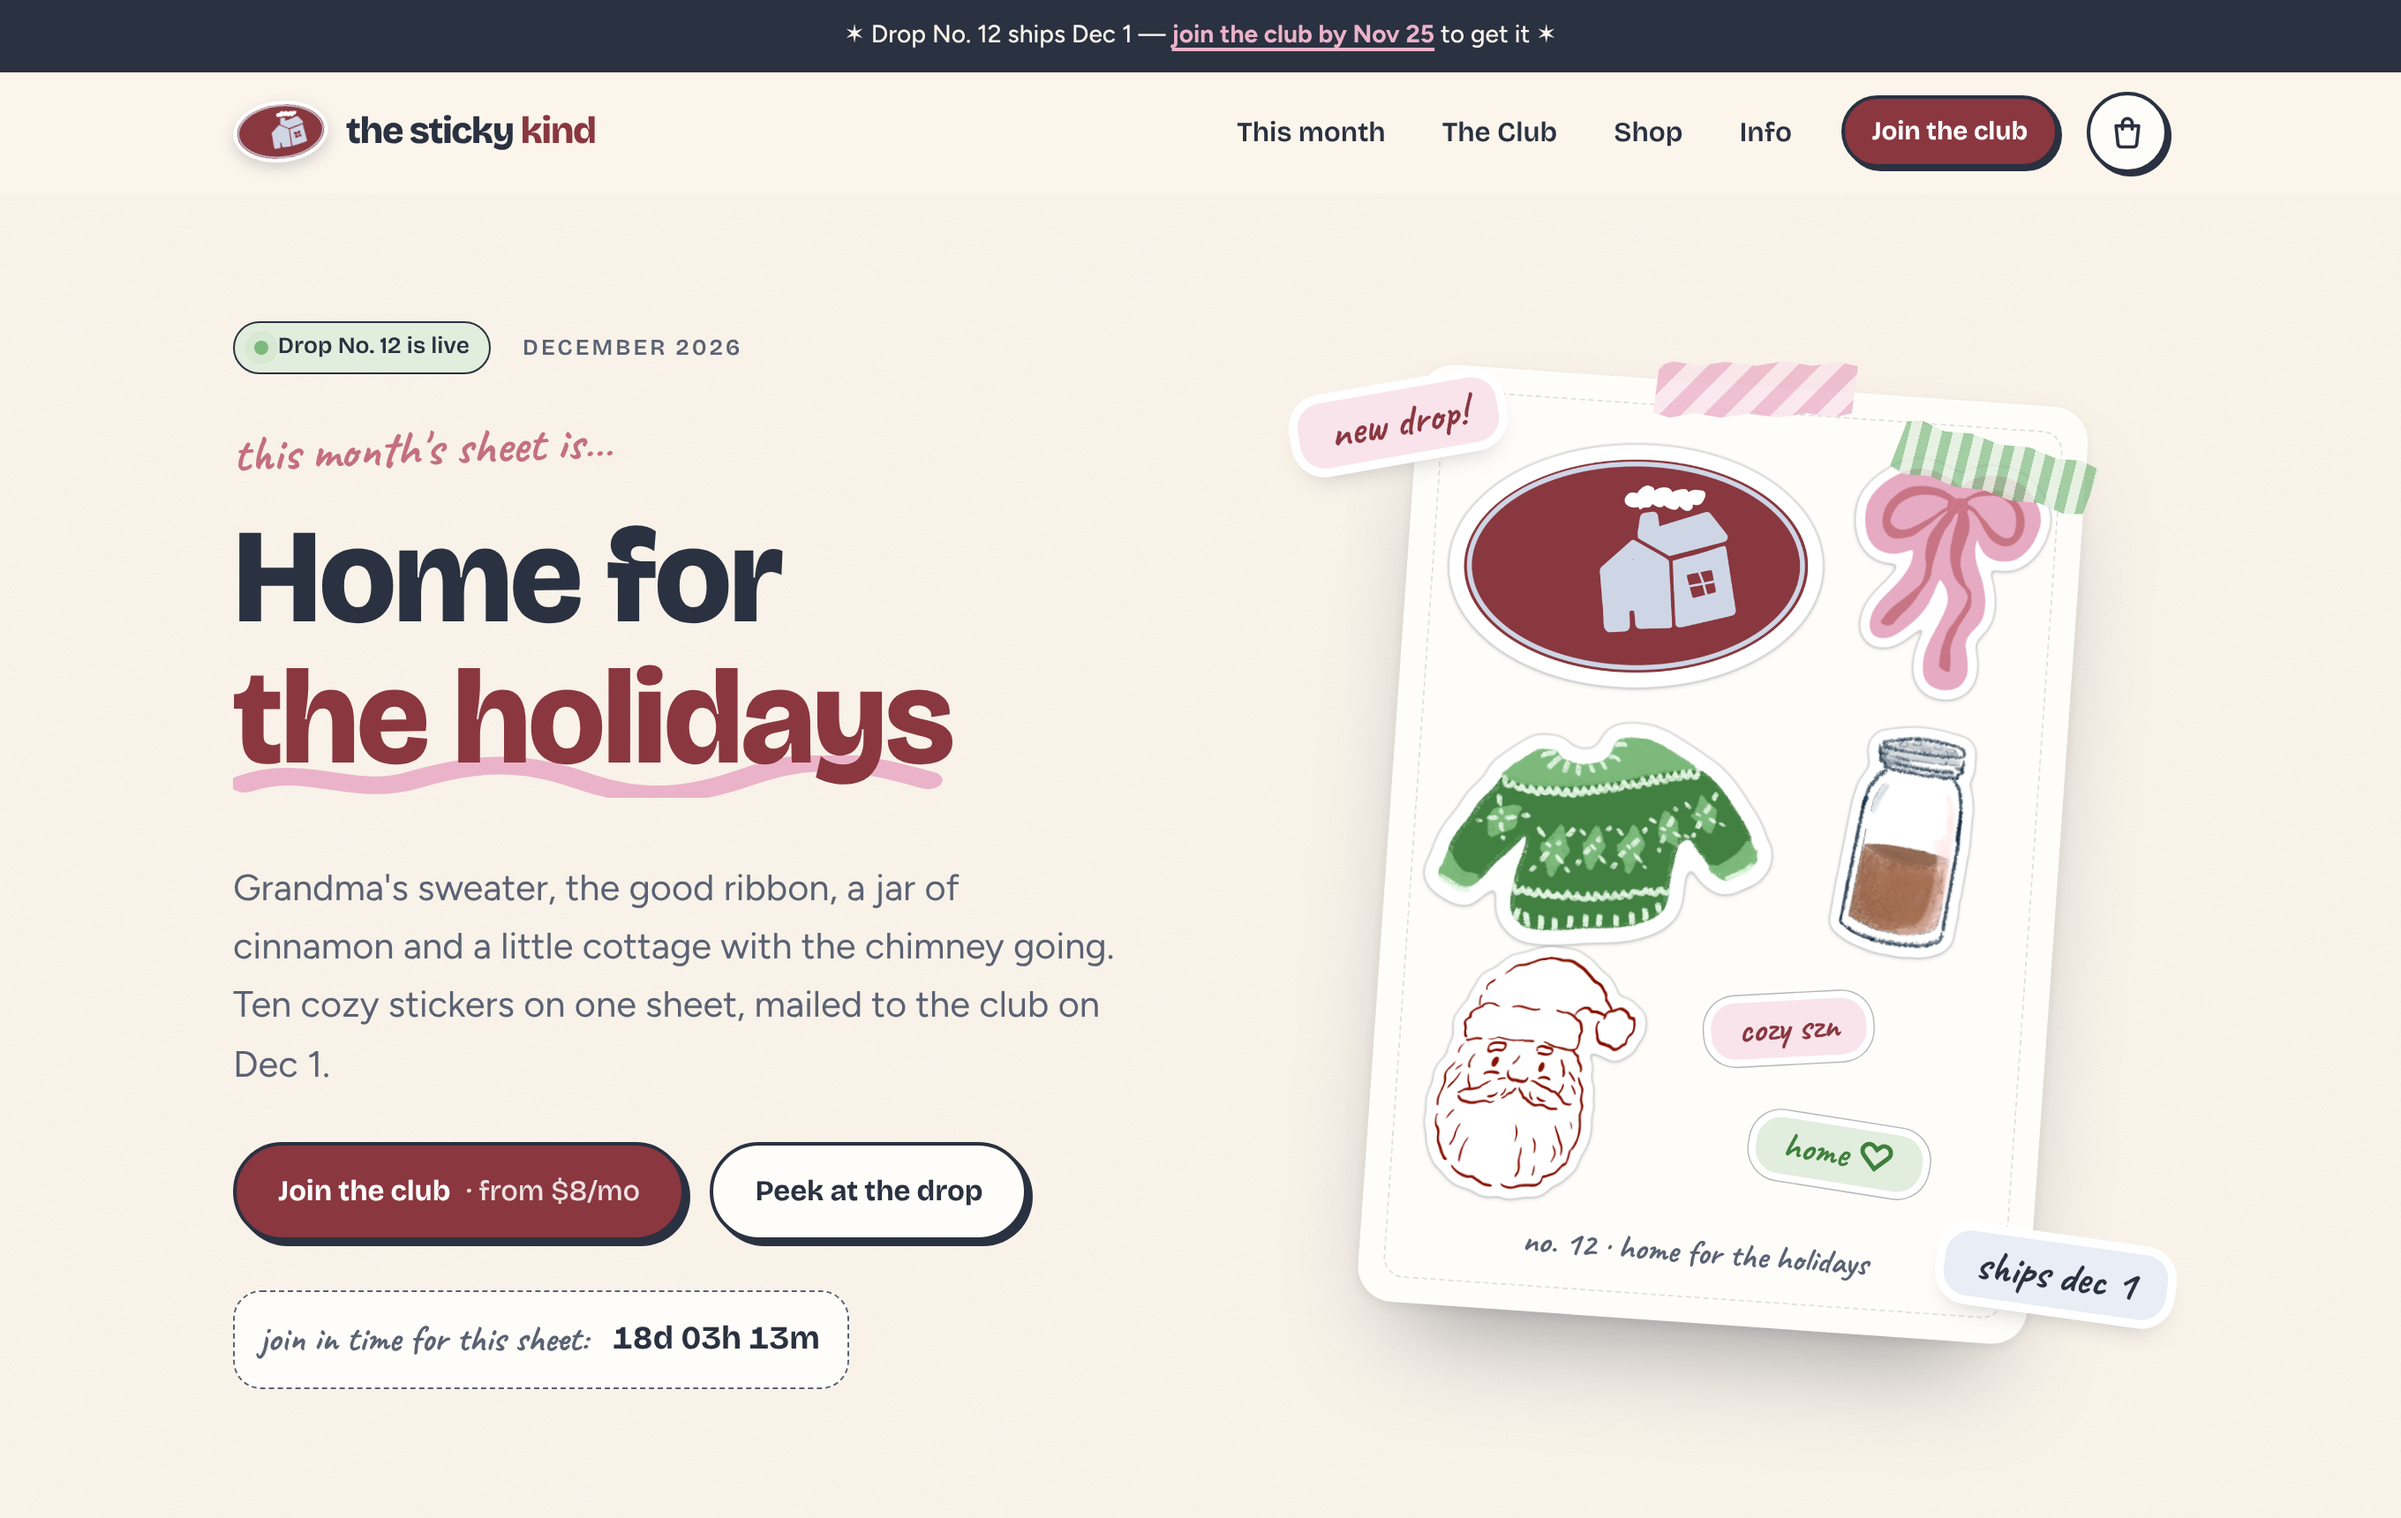
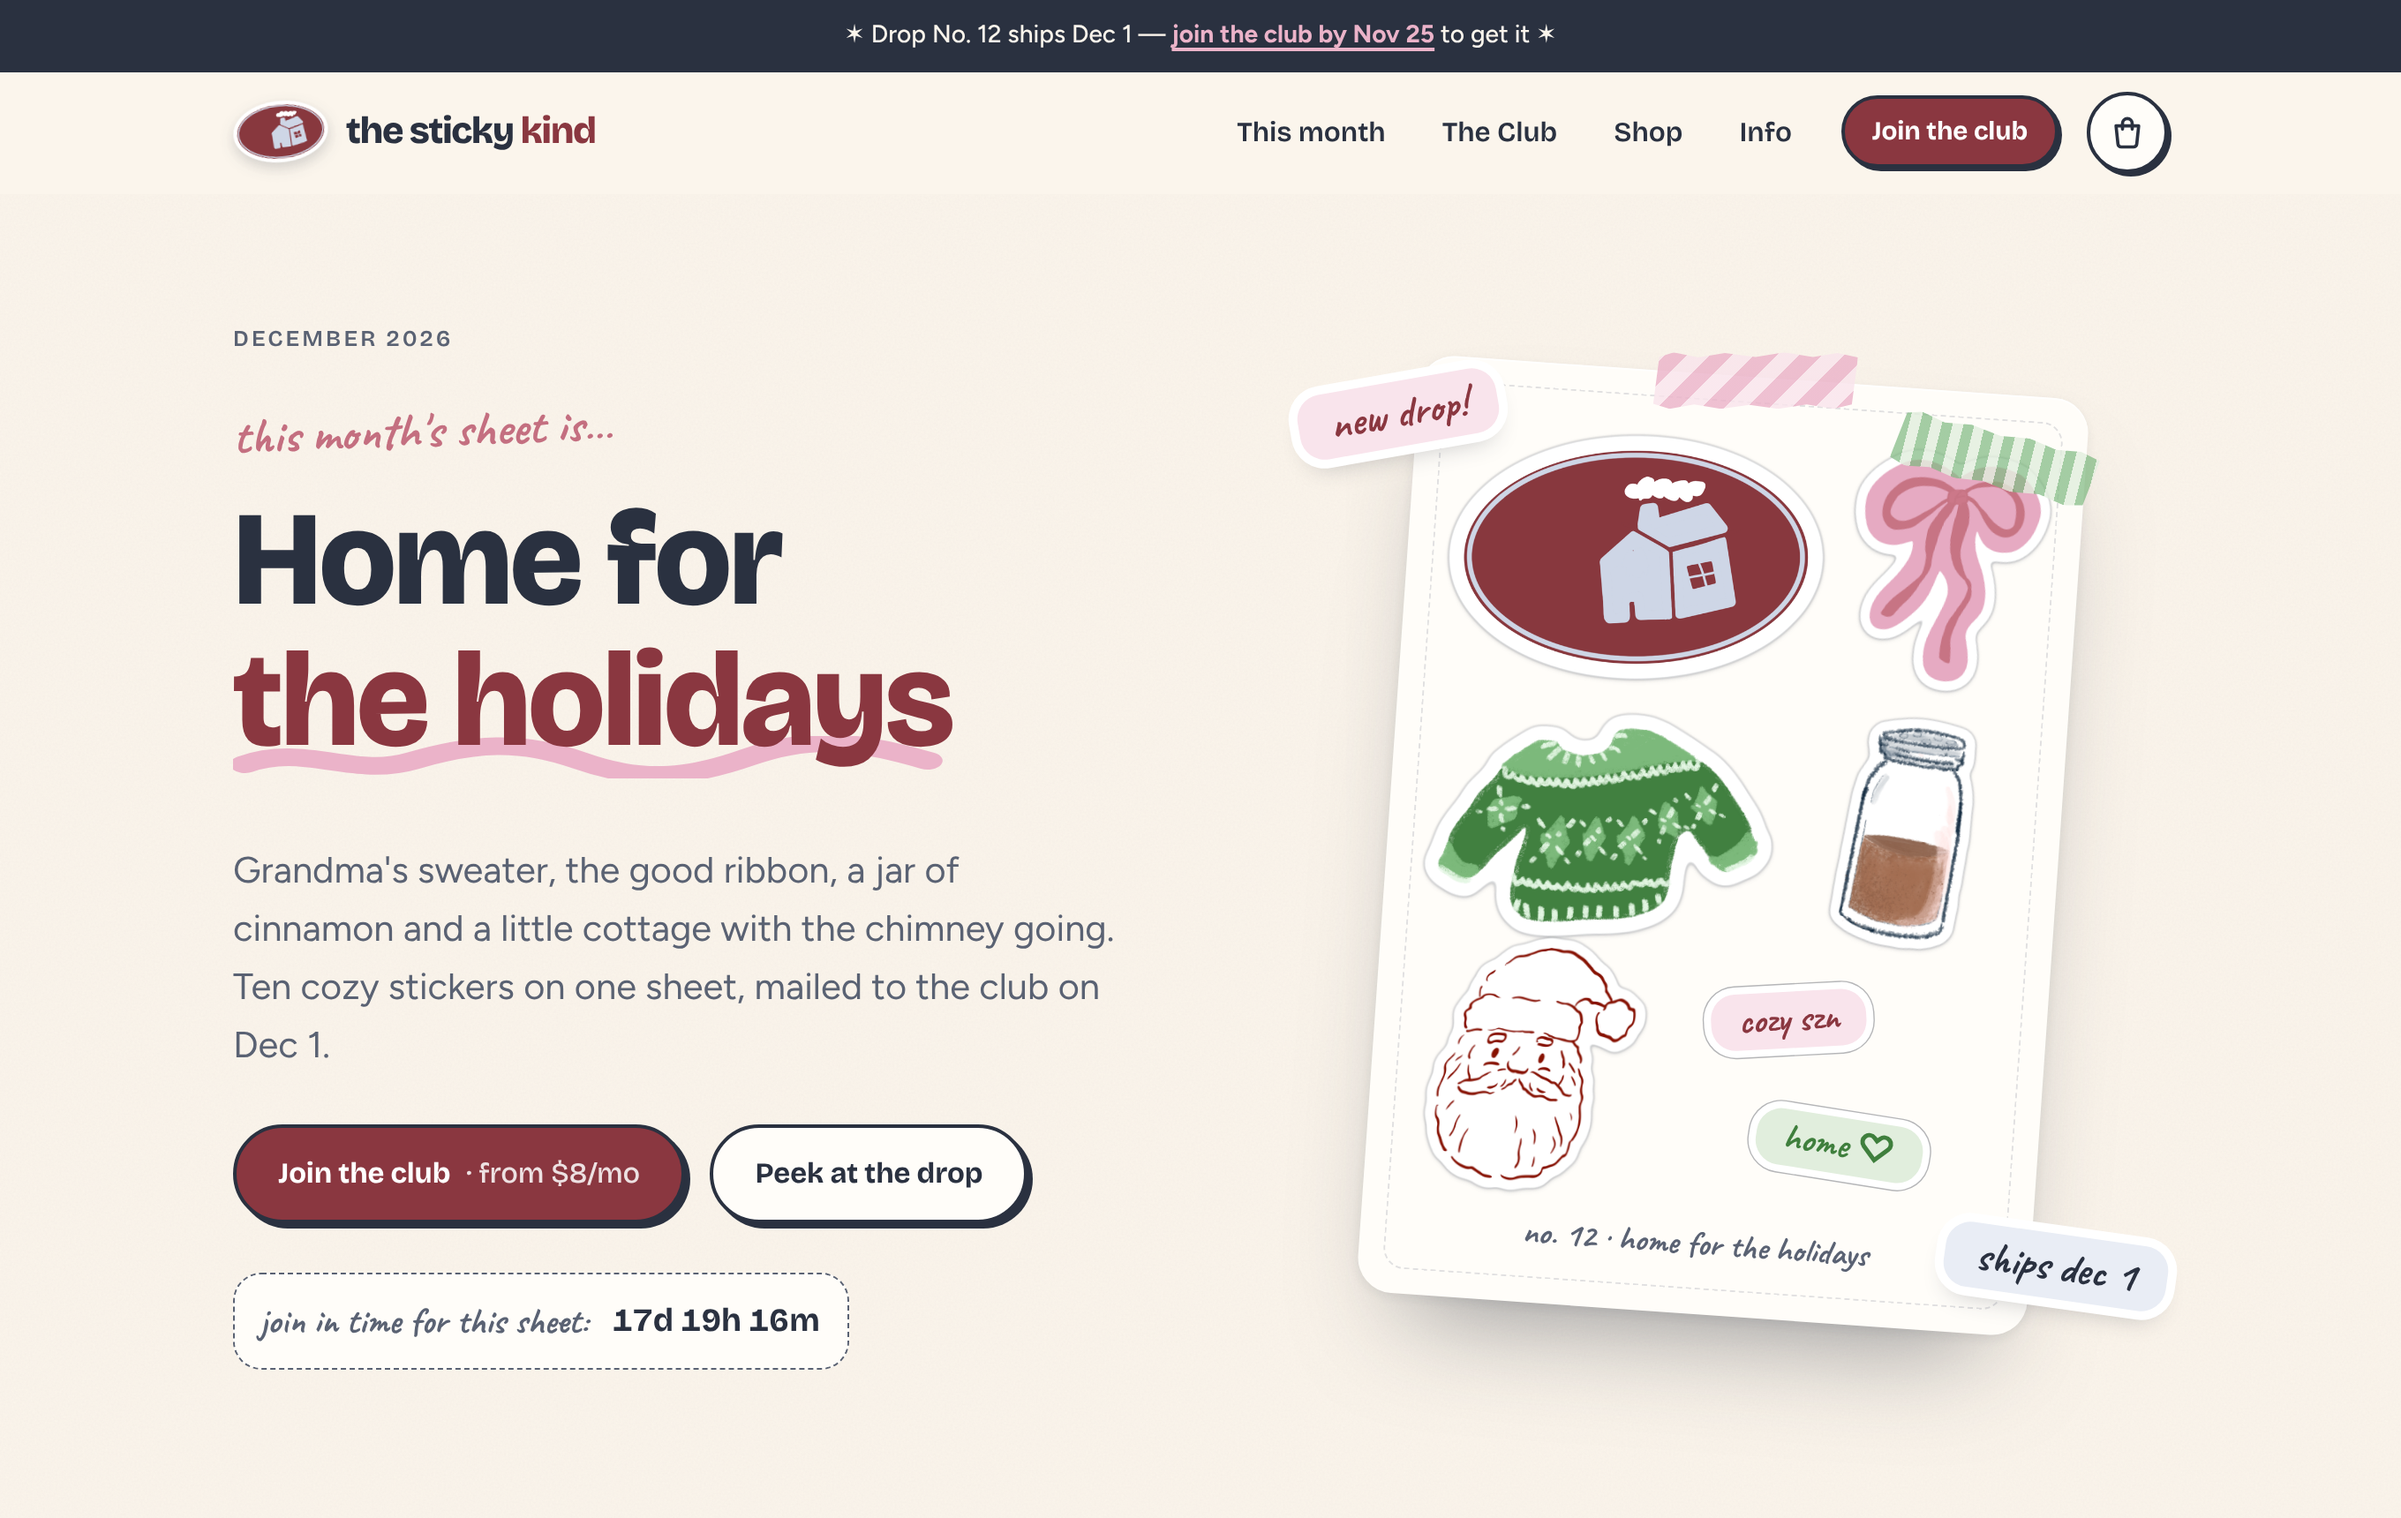
Remove green 'live' badges from home and drop heroes
Claude-Session: https://claude.ai/code/session_012kNsPPtjd8DE8WhppYGP8A

diff --git a/drop.html b/drop.html
@@ -67,7 +67,6 @@
     <div>
       <nav class="breadcrumb" aria-label="Breadcrumb"><a href="index.html">Home</a> / <span>Drop No. 12</span></nav>
       <div class="hero-meta">
-        <span class="pill pill-sage"><span class="dot live"></span> Now open</span>
         <span class="pill">Ships Dec 1</span>
         <span class="pill pill-blush">10 stickers</span>
       </div>

diff --git a/index.html b/index.html
@@ -52,7 +52,6 @@
   <div class="wrap hero-grid">
     <div class="hero-copy">
       <div class="hero-meta">
-        <span class="pill pill-sage"><span class="dot live"></span> Drop No. 12 is live</span>
         <span class="eyebrow">December 2026</span>
       </div>
       <span class="kicker">this month's sheet is…</span>
